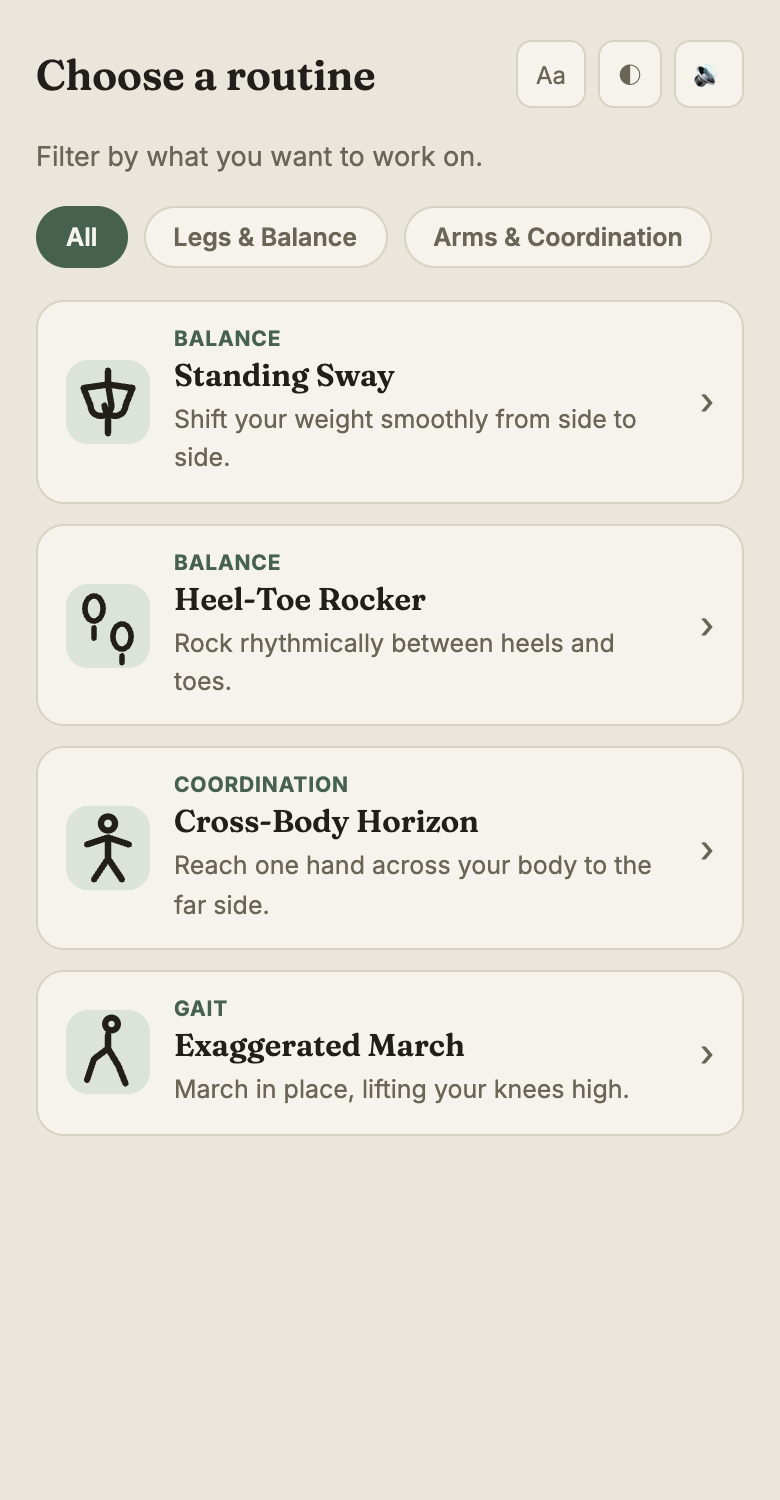
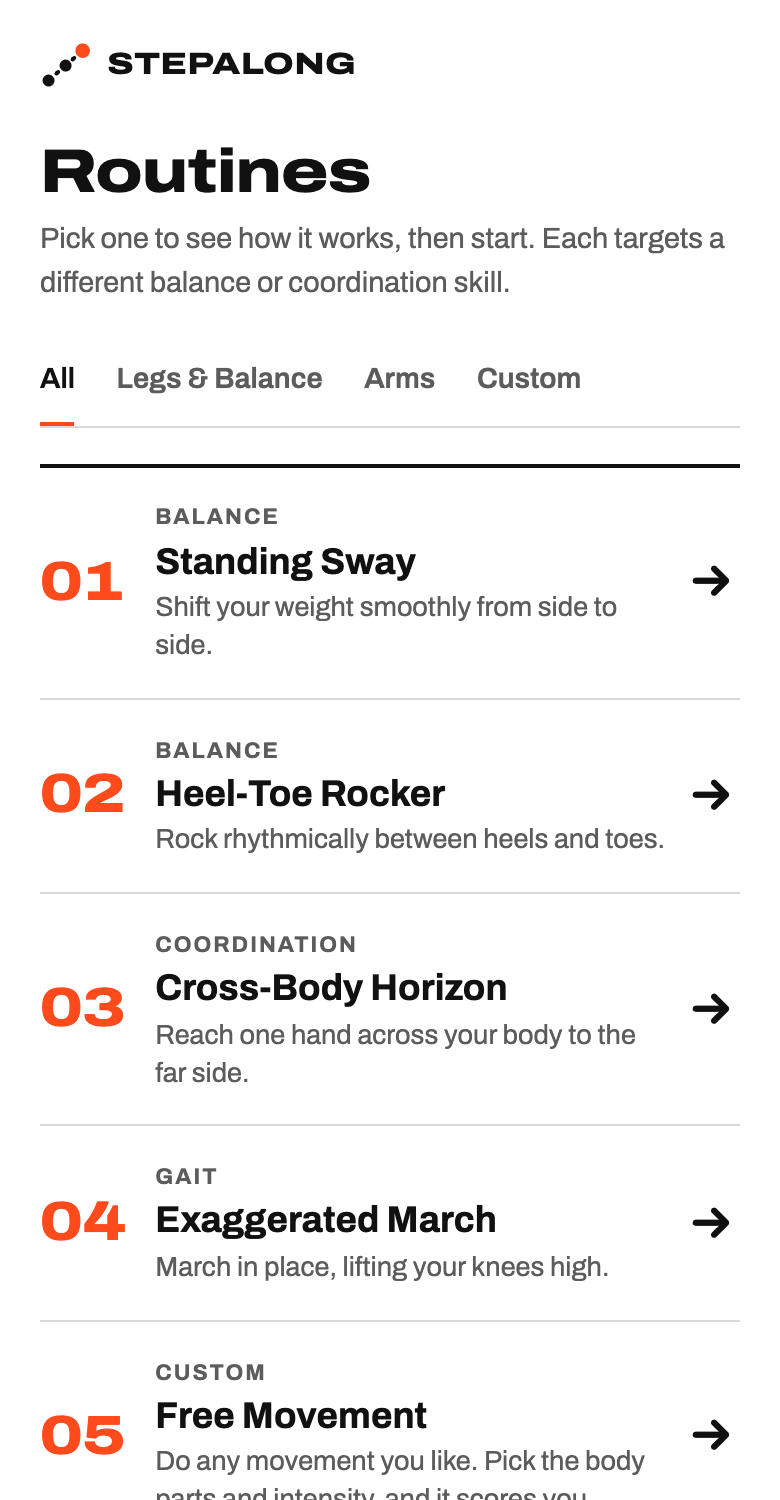
Update docs and screenshots for the merged app
- docs/scoring.md: rewritten for scoring v3 (two sides, alternating
  reps, live-score curve, round score from reps/range/consistency,
  left-vs-right advice, tier table, Free Movement, v3 storage, tests)
- README: new features, routines (incl. Free Movement), accessibility
  switches, updated pipeline, test description and fonts
- New screenshots in the poster design; practice and results captured
  in Chrome with the real MediaPipe model

diff --git a/docs/scoring.md b/docs/scoring.md
@@ -1,19 +1,20 @@
 # How StepAlong scores movement
 
-StepAlong turns a live camera feed into a 0–100 "match" score and a rep count, entirely in the browser. This document explains each step and why it exists.
+StepAlong turns a live camera feed into a live 0–100 "match" score, a rep count and a round score, entirely in the browser. This document explains each step and why it exists. The code is in the `SCORING` section of [`app.js`](../app.js).
 
 ## The pipeline
 
 ```mermaid
 flowchart LR
     A[Camera frame] --> B[MediaPipe Pose<br/>33 body landmarks]
-    B --> C[Routine metric<br/>÷ body size]
-    C --> D[Compare to your<br/>personal baseline]
+    B --> C[Two side values<br/>÷ body size]
+    C --> D[Minus your<br/>personal baseline]
     D --> E[Smooth out<br/>jitter]
-    E --> F[Score 0–100]
-    F --> G{Held ≥ 70<br/>for ~0.5 s?}
+    E --> F[Live score 0–100<br/>per side]
+    F --> G{≥ 70 for the hold time,<br/>opposite side?}
     G -- yes --> H[Rep counted]
     G -- no --> F
+    H --> I[Round score:<br/>reps · range · consistency]
 ```
 
 This runs on every video frame, for whichever routine is active.
@@ -22,92 +23,134 @@ This runs on every video frame, for whichever routine is active.
 
 [MediaPipe Pose](https://github.com/google-ai-edge/mediapipe) returns 33 landmarks (shoulders, hips, knees, ankles, heels, toes, wrists, and so on) as x/y positions between 0 and 1 in the camera frame. The model runs on the device, and no video leaves the browser.
 
-The coordinates are in the **raw, unmirrored** frame. The on-screen video is flipped with CSS so it feels like a mirror, but the maths always uses the raw frame.
+The coordinates are in the **raw, unmirrored** frame. The on-screen video is flipped with CSS so it feels like a mirror, but the maths always uses the raw frame. In the raw frame the person's right side is at *small* x, which matters for Cross-Body Horizon: an early version had that routine backwards because of it.
 
-### 2. Measure one thing, relative to body size
+### 2. Two sides per routine, relative to body size
 
-Each routine has a `rawMetric(landmarks)` function that reduces the pose to one number, such as "how far the hips have shifted sideways from the ankles".
+Every routine measures **two "sides"**: left and right knee, heels-up and toes-up, shift left and shift right, and so on. Each routine's `sides(landmarks)` function returns one number per side, for example "how far the hips have moved sideways from the ankles".
 
-That distance is then **divided by a body measurement**, either shoulder width or torso length. A child standing 3 m away and an adult standing 1 m away then produce the same number for the same movement, because both the movement and the ruler scale together.
+Each number is **divided by a body measurement**, either shoulder width or torso length. A child standing 3 m away and an adult standing 1 m away then produce the same number for the same movement, because both the movement and the ruler scale together.
 
 ### 3. Compare to *your* neutral stance
 
-Everyone stands a little differently. During the 3-2-1 countdown the user stands still, and the app records the metric on each frame. The **median** of those samples becomes that person's baseline. The median ignores a few glitchy frames better than the mean does.
+During the 3-2-1 countdown the user stands still, and the app records each side's value on every frame. The **median** of those samples becomes that person's baseline for that side. The median ignores a few glitchy frames better than the mean does. If the countdown captured fewer than 8 samples (for example, the person stepped out of frame), the routine's built-in `defaultBase` is used instead.
 
-During the round, the app scores the **deviation from that baseline**:
+During the round, each side is scored on how far it has moved *past* the baseline:
 
-- `mode: 'abs'`: movement in either direction counts, `|raw − baseline|` (sway left or right, heels up or toes up)
-- `mode: 'up'`: only movement in one direction counts, `max(0, raw − baseline)` (raising a knee, reaching across)
-
-If the countdown captured fewer than 8 samples (for example, the person stepped out of frame), the routine's built-in `defaultBaseline` is used instead.
+```
+deviation = max(0, raw − baseline)
+```
 
 ### 4. Smooth out jitter
 
-Landmark positions wobble by a few pixels between frames even when you stand perfectly still. Without smoothing, the score flickered between 0 and 100. An exponential moving average fixes this:
+Landmark positions wobble by a few pixels between frames even when you stand perfectly still. An exponential moving average steadies them:
 
 ```
-smoothed = 0.72 × previous + 0.28 × new
+smoothed = 0.72 × previous + 0.28 × deviation
 ```
 
-Each new frame moves the score about a quarter of the way toward the new value. That's steady enough to read, and still quick to respond.
-
-### 5. Turn it into a score
+### 5. Live score: you have to earn it
 
 ```
-score = round( clamp(smoothed ÷ amplitude, 0, 1) × 100 )
+ratio = smoothed ÷ tier amplitude            (1.0 = you reached the target size)
+live  = round( 100 × clamp(ratio ÷ 1.2, 0, 1) ^ 1.5 )
 ```
 
-`amplitude` is the target size of the movement for the current difficulty tier. Reaching it scores 100, and half of it scores 50.
+| You move… | ratio | live score |
+|---|---|---|
+| a little | 0.3 | 13 |
+| half the target | 0.5 | 27 |
+| exactly the target | 1.0 | 76 |
+| 20% past the target | 1.2 | 100 |
+
+Reaching the target scores about 70, a 100 needs 20% more than the target, and tiny movements stay under 25. An earlier version gave 100 at exactly the target, and testers said the scores were too easy.
 
 ### 6. Count a rep only when it's real
 
-Briefly passing through a good position doesn't count. A rep needs:
+For each side, a rep needs:
 
-1. The score to stay at **70 or higher for about 550 ms** (the gold hold bar fills up), then
-2. The score to fall back to **35 or lower** before the next rep can count.
+1. The live score to stay at **70 or higher** for the tier's **hold time** (the hold bar fills up), **and**
+2. It must be the **opposite side** from the previous rep. Repeating the same side doesn't count, and the app prompts you to switch.
 
-Without step 2, holding one pose would count reps over and over. Frame timing is capped at 100 ms per step, so someone who walks out of frame and back in can't instantly fill the hold bar.
+After counting, that side re-arms only once its score drops back to **35 or lower**, so holding one pose can't count reps over and over. Frame timing is capped at 100 ms per step, so someone who walks out of frame and back in can't instantly fill the hold bar.
 
-### 7. Round results
+### 7. Round score
 
-- **Average score** is the mean of the score at each counted rep, which measures rep *quality*. The first version averaged every frame, so time spent resting between reps unfairly dragged the score down.
-- If no reps were counted, the average falls back to the mean of the top 25% of frame scores.
+Each round lasts 25 seconds. The score blends three parts:
 
-### 8. Adaptive difficulty
+```
+repsPart  = clamp(reps ÷ target reps, 0, 1)
+rangePart = mean over reps of clamp((peak ratio − 0.9) ÷ 0.3, 0, 1)
+consPart  = 1 − (spread of peak sizes ÷ their average) ÷ 0.25     (needs 3+ reps)
 
-After a round with an average above 82 and at least 3 reps, the routine moves up a tier (there are three). A higher tier needs a bigger movement (`amplitude`), and the routines with a beat get a faster metronome.
+score = round(100 × (0.40 × repsPart + 0.35 × rangePart + 0.25 × consPart))
+```
+
+- **Reps (40%):** did you reach the tier's rep target?
+- **Range (35%):** how big was each counted rep? Just reaching the target earns half, and 20% past it earns full marks.
+- **Consistency (25%):** were your reps the same size?
+- If **no reps** counted, the score is only a quarter of the best live score, so moving without completing reps earns a little credit but not much.
+
+The results screen shows the three parts as bars, plus a **left-vs-right** comparison. Each side's bar is the live score of its 95th-percentile movement. If you did at least 2 reps and one side is under 75% of the other, the weaker side's bar turns yellow and the tip names it, for example "Your right knee was weaker (45 vs 80). Lift your right knee higher." Otherwise the tip targets your weakest part (more reps, bigger range, or more even reps).
+
+### 8. Tiers and levelling up
+
+Each routine has three tiers: **Gentle, Steady and Strong**. A higher tier needs a bigger movement (amplitude), more reps, and a longer hold, and the rhythm routines get a faster beat. After a round with a score of **70 or more** that also reaches the rep target, the routine moves up one tier automatically. You can also pick a tier yourself on the practice screen.
+
+The first-time setup sets the starting tier: "Very steady" starts on Tier 2, and everyone else starts on Tier 1. This only applies to routines that have no saved rounds yet.
 
 ## The routines
 
-| Routine | What is measured | Divided by | Mode | Tier amplitudes | Beat |
+| Routine | Sides measured | Divided by | Tier 1 | Tier 2 | Tier 3 |
 |---|---|---|---|---|---|
-| **Standing Sway** | Hip centre x − ankle centre x | shoulder width | either direction | 0.09 / 0.13 / 0.17 | – |
-| **Heel-Toe Rocker** | Toe height − heel height | torso length | either direction | 0.06 / 0.09 / 0.12 | 50 / 60 / 70 bpm |
-| **Cross-Body Horizon** | Wrist travel toward the opposite shoulder | shoulder width | one direction | 0.35 / 0.50 / 0.65 | – |
-| **Exaggerated March** | Knee height relative to hip | torso length | one direction | 0.35 / 0.55 / 0.75 | 50 / 60 / 72 bpm |
+| **Standing Sway** | hip centre vs ankle centre, shifted left / right | shoulder width | amp .18, hold 0.6 s, 6 reps | .26, 0.75 s, 8 | .34, 0.9 s, 10 |
+| **Heel-Toe Rocker** | toes vs heels height: heels up / toes up | torso length | amp .10/.06, 0.4 s, 8 reps, 50 bpm | .14/.08, 0.5 s, 12, 60 bpm | .18/.10, 0.6 s, 16, 70 bpm |
+| **Cross-Body Horizon** | each wrist's travel toward the opposite shoulder | shoulder width | amp .45, 0.4 s, 6 reps | .65, 0.5 s, 8 | .85, 0.6 s, 10 |
+| **Exaggerated March** | each knee's height relative to its hip | torso length | amp .45, 0.15 s, 10 reps, 50 bpm | .65, 0.2 s, 14, 60 bpm | .85, 0.25 s, 18, 72 bpm |
 
-For the march, the knee sits about 0.9 torso lengths below the hip when standing and level with the hip when the thigh is parallel to the floor.
+Heel-Toe Rocker has a smaller target for "toes up", because lifting the toes is a smaller movement than rising onto them. For the march, the knee sits about 0.9 torso lengths below the hip when standing, so the baseline model scores the *lift*, not the absolute knee height. An early version required the knee to reach hip height, which is nearly impossible.
 
-> **Tuning status:** the amplitudes are starting estimates. They are being tuned against real people on real devices. Heel and toe landmarks are the noisiest, so Heel-Toe Rocker is the most likely to need adjustment.
+> **Tuning status:** these values were tuned after "too easy" feedback and are being checked against real people on real devices. Add `?debug` to the URL to see each side's raw deviation, target and score live.
+
+## Free Movement
+
+Free Movement doesn't compare you to a fixed routine. You pick body parts (arms, legs, torso), an intensity (low ×0.6, medium ×1, high ×1.5 the target size) and a pace (slow 8, medium 14, fast 20 target reps), or a preset such as jumping jacks.
+
+- Each body part has several candidate **signals**. For arms these are arm raise, arm spread and alternating arms. The app tracks all of them and uses whichever one is actually repeating.
+- A **zig-zag cycle detector** counts one cycle each time a signal rises by at least 80% of its target size and turns back.
+- **Reps = the smallest cycle count across the parts you picked.** If you choose arms and legs but only move your legs, you score 0 reps.
+- The round score uses the same reps, range and consistency formula, and the results show a **by-body-part** breakdown instead of left vs right.
 
 ## Saved data
 
-Only scores are saved, in the browser's `localStorage`, and never any video:
+Only settings and scores are saved, in the browser's `localStorage`, and never any video:
 
 | Key | Contents |
 |---|---|
-| `stepalong_sessions_v2` | Last 50 rounds: routine, date, average score, best score, reps, tier |
-| `stepalong_difficulty_v2` | Current tier for each routine |
+| `stepalong_profile_v1` | Name (optional), goal, steadiness, practice days and rounds per session, accessibility and sound settings, whether setup is done |
+| `stepalong_sessions_v3` | Last 50 rounds, newest first: routine, date, round score, best live score, reps, tier, the three score parts, side scores, and the tip |
+| `stepalong_difficulty_v3` | Current tier for each routine |
 | `stepalong_setup_seen_v1` | Whether the first-run setup tips have been shown |
+| `stepalong_custom_v1` | Your last Free Movement setup |
 
-"Reset progress" on the Progress screen erases the first two.
+Settings → "Reset progress" erases rounds and tiers. "Start over" erases everything and replays the first-time setup. Rounds saved by the earlier version of the app (`_v2` keys) used the old, easier scoring, so they're ignored rather than mixed in.
 
 ## Testing
 
-`npm test` runs `tests/e2e-smoke.js`. It loads the app in a simulated browser (jsdom), replaces the camera and MediaPipe with a fake that returns hand-made poses, and plays a shortened round of every routine. It checks that:
+`npm test` runs two suites in a simulated browser (jsdom). Each replaces the camera and MediaPipe with a fake that returns hand-made poses.
 
-- moving between the rest pose and the target pose counts at least 3 reps with a high score
-- standing still counts **zero** reps
-- the results screen appears and the round is saved
+**`tests/e2e-smoke.js`** plays shortened rounds of every routine and checks that:
 
-This checks the logic, not whether the thresholds feel right on a real body. That needs a real camera.
+- alternating full-size reps count, but a 100 isn't handed out
+- standing still scores about 0, and tiny movements don't count
+- repeating the same side counts only once
+- Tier 3 is harder than Tier 1
+- the live cue and the results tip tell you what to do
+- the round is saved with its breakdown, side scores and tip
+- a lopsided round names the weaker side, and a balanced one doesn't
+
+For Free Movement it checks that jumping jacks count, moving only your legs during jumping jacks scores 0, and tiny arm movements don't count.
+
+**`tests/nav-smoke.js`** walks through the first-time setup, return visits, all four tabs, routine pages, Settings, Home and Progress with history, and the reset buttons.
+
+These tests check the logic, not whether the thresholds feel right on a real body. That needs a real camera.

diff --git a/README.md b/README.md
@@ -2,27 +2,29 @@
 
 # StepAlong
 
-**Camera-based movement practice with live feedback. No wearables, no sign-up, nothing to install.**
+**Your camera is the coach. Movement practice with live feedback: no wearables, no sign-up, nothing to install.**
 
 Stand in front of your phone or laptop, pick a routine, and StepAlong watches your movement in real time,<br/>
-scores how closely you match the target, and counts your reps.
+scores each rep, counts them, and tells you what to work on next.
 
 [**▶ Try it live**](https://advikaaaaa.github.io/stepalong/) · [How the scoring works](docs/scoring.md) · [Run it locally](#run-it-locally)
 
-![Runs in the browser](https://img.shields.io/badge/runs_in-the_browser-47614F?style=flat-square)
-![Video stays on device](https://img.shields.io/badge/video-stays_on_device-47614F?style=flat-square)
-![MediaPipe Pose](https://img.shields.io/badge/pose_tracking-MediaPipe-B9812F?style=flat-square)
-![Vanilla JS](https://img.shields.io/badge/vanilla-HTML_·_CSS_·_JS-B9812F?style=flat-square)
+![Runs in the browser](https://img.shields.io/badge/runs_in-the_browser-111111?style=flat-square)
+![Video stays on device](https://img.shields.io/badge/video-stays_on_device-111111?style=flat-square)
+![MediaPipe Pose](https://img.shields.io/badge/pose_tracking-MediaPipe-FF4A1C?style=flat-square)
+![Vanilla JS](https://img.shields.io/badge/vanilla-HTML_·_CSS_·_JS-FF4A1C?style=flat-square)
 
 <table>
   <tr>
-    <td align="center"><img src="docs/images/routines.png" width="240" alt="Routine list with Standing Sway, Heel-Toe Rocker, Cross-Body Horizon and Exaggerated March"/><br/><sub><b>Pick a routine</b></sub></td>
-    <td align="center"><img src="docs/images/practice.png" width="240" alt="Practice screen showing a tracked body skeleton, a live match score of 100 and 2 reps completed"/><br/><sub><b>Live score and rep counting</b></sub></td>
-    <td align="center"><img src="docs/images/results.png" width="240" alt="Round complete overlay showing average score and reps, with the difficulty tier raised to Tier 2"/><br/><sub><b>Results and adaptive difficulty</b></sub></td>
+    <td align="center"><img src="docs/images/wizard.png" width="170" alt="Setup wizard step 2 of 3, asking how steady you feel on your feet"/><br/><sub><b>Quick first-time setup</b></sub></td>
+    <td align="center"><img src="docs/images/routines.png" width="170" alt="Numbered routine list: Standing Sway, Heel-Toe Rocker, Cross-Body Horizon, Exaggerated March and Free Movement"/><br/><sub><b>Pick a routine</b></sub></td>
+    <td align="center"><img src="docs/images/detail.png" width="170" alt="Exaggerated March detail page with what it trains, how to do it and the three tiers"/><br/><sub><b>Learn how it works</b></sub></td>
+    <td align="center"><img src="docs/images/practice.png" width="170" alt="Practice screen with a tracked skeleton, a live match score of 100 and 2 reps"/><br/><sub><b>Live score and reps</b></sub></td>
+    <td align="center"><img src="docs/images/results.png" width="170" alt="Round complete: score 94, 9 reps, bars for reps, range, consistency and left vs right, and a tier-up message"/><br/><sub><b>Results and a tip</b></sub></td>
   </tr>
 </table>
 
-<sub>Screenshots use the real pose model. The camera image is hidden so only the tracked skeleton shows.</sub>
+<sub>Practice and results screenshots use the real pose model. The camera image is hidden so only the tracked skeleton shows.</sub>
 
 </div>
 
@@ -35,58 +37,66 @@ Keep it short and specific. Use the same story on the app's intro screen.
 
 ## What it does
 
-- **Live match score (0–100).** It updates many times a second as you move, with a gauge that turns green when you're on target.
-- **Reps that only count when they're real.** You have to *hold* a good position for about half a second, then reset, so passing through a pose or holding still doesn't count.
+- **Starts where you are.** A three-step setup asks what you want to work on and how steady you feel, then suggests a first routine and a starting level. Anyone who feels unsteady starts at the gentlest level, with a safety note.
+- **Live match score (0–100).** It updates many times a second as you move, with live coaching cues such as "A little further" or "Now shift to your right".
+- **Reps that only count when they're real.** You have to *hold* a good position for the tier's hold time, then reset, and reps must alternate sides. Passing through a pose, or repeating the same side, doesn't count.
 - **Calibrates to you.** During the 3-2-1 countdown it measures how *you* naturally stand, so it works for different bodies, postures and camera distances.
-- **Gets harder as you improve.** Three difficulty tiers per routine. Score well and the target movement grows, and the beat speeds up.
-- **On-beat practice.** Rhythm routines include an optional metronome with a visual pulse.
-- **Progress tracking.** Rounds, total reps, a day streak and a score trend chart, all saved in your browser.
+- **Results that explain themselves.** Each round is scored on reps, range and consistency, with a left-vs-right comparison. If one side is weaker, StepAlong says which one and what to do about it.
+- **Gets harder as you improve.** Three tiers per routine (Gentle, Steady, Strong). Each needs bigger movements, more reps and a longer hold, and a strong round moves you up automatically.
+- **Free Movement.** Pick any body parts, an intensity and a pace (or a preset like jumping jacks), and StepAlong counts and scores your repeats.
+- **Progress you can see.** A Home screen with your next goal and weekly practice days, a score chart, best score per routine, and badges.
+- **Share with a coach.** A plain-text progress summary you can copy or download for a therapist or coach. It never includes video.
 
 ## Routines
 
-| | Routine | What you do | Focus |
+| # | Routine | What you do | Focus |
 |---|---|---|---|
-| ⚖ | **Standing Sway** | Shift your weight smoothly from side to side | Balance |
-| 👣 | **Heel-Toe Rocker** | Rock between heels and toes, on the beat | Balance |
-| 🤸 | **Cross-Body Horizon** | Reach one hand across your body to the far side | Coordination |
-| 🥁 | **Exaggerated March** | March in place with high knees, on the beat | Gait |
+| 01 | **Standing Sway** | Shift your weight fully over one foot, hold, then the other | Balance |
+| 02 | **Heel-Toe Rocker** | Rise onto your toes, then rock back onto your heels, on the beat | Balance |
+| 03 | **Cross-Body Horizon** | Reach each hand across your chest toward the opposite shoulder | Coordination |
+| 04 | **Exaggerated March** | March in place, lifting each knee high, on the beat | Gait |
+| 05 | **Free Movement** | Any movement you choose: pick body parts, intensity and pace | Custom |
 
-Each routine includes a short **"Research behind this routine"** note on the published movement research that inspired it, such as rhythmic auditory cueing in gait research.
+Each routine has a detail page with what it trains, how to do it, its three tiers, and a short **"Research behind this routine"** note on the published movement research that inspired it, such as rhythmic auditory cueing in gait research.
 
 ## Built for accessibility
 
-StepAlong is meant for people who may have limited mobility, so accessibility is built in:
+StepAlong is meant for people who may have limited mobility, so accessibility settings are real, app-wide switches. You can set them in the first-time setup and change them any time in Settings:
 
-- **Aa** large text
-- **◐** high-contrast mode
-- **🔊** spoken feedback ("Nice, that counted"), so you don't have to watch the screen
-- Automatic dark mode and a mobile-first layout
+- **Larger text** across the whole app
+- **High contrast**: black and white with a yellow highlight
+- **Voice coaching**: short spoken tips during a round, so you don't have to watch the screen
+- **Beat sounds** for the rhythm routines, which can be switched off
+- Automatic dark mode, keyboard focus outlines, reduced motion support, and a mobile-first layout
 - First-run **setup tips** for camera placement, lighting and a safe practice space
 
 ## Privacy
 
-**Your camera video never leaves your device.** Pose tracking runs entirely in your browser using Google's [MediaPipe Pose](https://github.com/google-ai-edge/mediapipe) model. Nothing is uploaded, recorded or stored. StepAlong only saves your round scores, in your own browser's local storage, and you can erase them at any time from the Progress screen.
+**Your camera video never leaves your device.** Pose tracking runs entirely in your browser using Google's [MediaPipe Pose](https://github.com/google-ai-edge/mediapipe) model. Nothing is uploaded, recorded or stored. StepAlong only saves your settings and round scores, in your own browser's local storage. You can erase your progress, or everything, at any time from Settings.
 
 ## How it works
 
 ```mermaid
 flowchart LR
     A[Camera] --> B[MediaPipe Pose<br/>33 landmarks]
-    B --> C[Measure movement<br/>÷ body size]
+    B --> C[Measure each side<br/>÷ body size]
     C --> D[Compare to your<br/>calibrated stance]
     D --> E[Smooth jitter]
-    E --> F[Score 0–100]
-    F --> G[Hold to count a rep]
+    E --> F[Live score 0–100]
+    F --> G[Hold, alternate sides<br/>to count a rep]
+    G --> H[Round score:<br/>reps · range · consistency]
 ```
 
-The hard part is making a noisy camera estimate feel fair and steady:
+The hard part is making a noisy camera estimate feel fair, steady and honest:
 
 1. **Body-size normalization.** Every distance is divided by your shoulder width or torso length, so it works near or far, for any body size.
 2. **Personal baseline.** Your neutral stance is measured during the countdown, and you're scored on movement *away* from it.
-3. **Jitter smoothing.** An exponential moving average stops the score from flickering between 0 and 100.
-4. **Hold-to-count reps.** A rep needs about 0.5 s at 70+, then a reset below 35, so passing through a pose or holding still can't add reps.
+3. **Jitter smoothing.** An exponential moving average stops the score from flickering.
+4. **A score you have to earn.** Reaching the target size scores about 70, and a 100 needs you to go 20% beyond it. Tiny movements score under 25.
+5. **Hold-to-count, alternating reps.** A rep needs the tier's hold time at 70+, then a reset, and it must be the opposite side from the last rep.
+6. **Round score.** It combines reps (40%), range (35%) and consistency (25%), plus a left-vs-right check.
 
-The full explanation, with the formulas and per-routine measurements, is in **[docs/scoring.md](docs/scoring.md)**.
+The full explanation, with the formulas, per-routine measurements and tier table, is in **[docs/scoring.md](docs/scoring.md)**.
 
 ## Run it locally
 
@@ -99,23 +109,26 @@ npm install
 npm run dev          # → http://localhost:8001
 ```
 
-No Node.js? `python3 -m http.server 8001` works too.
+No Node.js? `python3 -m http.server 8001` works too. Add `?debug` to the URL to see the raw per-side numbers while practising.
 
 Run the tests:
 
 ```bash
-npm test             # syntax check + end-to-end test of every routine
+npm test             # syntax check + scoring tests + navigation tests
 ```
 
-The test plays a full round of each routine in a simulated browser with fake body poses. It checks that moving counts reps, standing still counts none, and results are saved.
+The tests run the app in a simulated browser with fake body poses:
+
+- **Scoring tests:** play full rounds of every routine and Free Movement. They check that alternating reps count, standing still and tiny movements don't, repeating one side counts once, higher tiers are harder, and a weaker side is called out.
+- **Navigation tests:** walk through the setup wizard, all four tabs, routine pages, Settings, progress history and the reset buttons.
 
 ## Project structure
 
 ```
 index.html        screens and layout
 styles.css        styling, colour theme, dark and high-contrast modes
-app.js            routines, pose scoring, round timer, progress tracking
-tests/            end-to-end smoke test
+app.js            routines, pose scoring, round flow, wizard, progress, settings
+tests/            scoring (e2e-smoke) and navigation (nav-smoke) tests
 docs/scoring.md   how the scoring works
 ```
 
@@ -124,9 +137,9 @@ Plain HTML, CSS and JavaScript, with no framework and no build step. It deploys 
 ## Built with
 
 - [MediaPipe Pose](https://github.com/google-ai-edge/mediapipe) for on-device body landmark detection
-- Web Audio API for the metronome and the Web Speech API for voice feedback
-- Inline SVG for icons and charts, and `localStorage` for progress
-- [Fraunces](https://fonts.google.com/specimen/Fraunces) and [Inter](https://fonts.google.com/specimen/Inter) fonts
+- Web Audio API for the metronome and the Web Speech API for voice coaching
+- Inline SVG for icons, artwork and the progress chart, and `localStorage` for settings and progress
+- [Archivo](https://fonts.google.com/specimen/Archivo) font
 
 ## License
 
